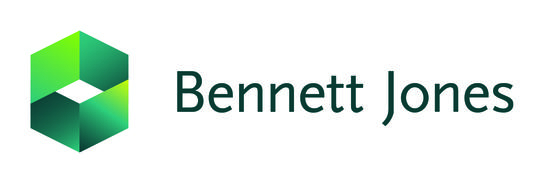
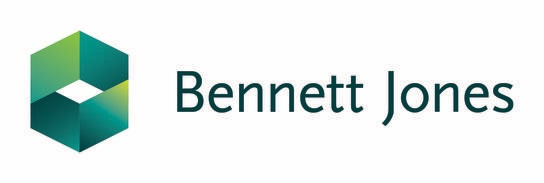
Improved image compression

Changed region(s): [[0.0312, 0.1639, 0.25, 0.5738], [0.0938, 0.4372, 0.25, 0.847]]

diff --git a/script.js b/script.js
@@ -9,7 +9,7 @@ const siteConfig = {
       "Join students, researchers, executives, and policy leaders for a one-day conference focused on the global energy industry.",
     about:
       "Queen's Global Energy Conference (QGEC) connects emerging talent with decision-makers shaping global energy markets. The conference combines keynote perspectives, technical sessions, and practical networking designed for both learning and sponsorship visibility.",
-    heroImage: "images/hero-image.png",
+    heroImage: "images/hero-image-opt.jpg",
     aboutImage: "images/western-electricity-grids.jpg",
     titleLines: ["Queen's", "Global Energy", "Conference 2026"],
     highlights: [
@@ -86,7 +86,7 @@ const siteConfig = {
       {
         name: "Matias Marjovsky",
         role: "Co-Chair",
-        image: "images/Team/Cochair/matias.png"
+        image: "images/Team/Cochair/matias-opt.jpg"
       }
     ],
     directors: [
@@ -109,11 +109,6 @@ const siteConfig = {
         name: "Markus Pennant",
         role: "Logistics",
         image: "images/Team/Directors/Markus-Headshot-opt.jpg"
-      },
-      {
-        name: "Sarah Bacanin",
-        role: "Events",
-        image: "images/Team/Directors/sarah.png"
       }
     ]
   },
@@ -315,7 +310,7 @@ const renderHero = () => {
 
   byId("hero-tagline").textContent = safeText(conference?.tagline);
   byId("hero-description").textContent = safeText(conference?.description);
-  byId("hero-media").style.backgroundImage = `url('${safeUrl(conference?.heroImage, "images/hero-image.png")}')`;
+  byId("hero-media").style.backgroundImage = `url('${safeUrl(conference?.heroImage, "images/hero-image-opt.jpg")}')`;
 
   const register = safeUrl(ctaLinks?.registerUrl);
   const sponsor = safeUrl(ctaLinks?.sponsorInfoUrl, safeUrl(ctaLinks?.sponsorUrl));

diff --git a/index.html b/index.html
@@ -8,7 +8,7 @@
       content="Queen's Global Energy Conference website with conference details, speakers, agenda, and registration information."
     />
     <title>Queen's Global Energy Conference</title>
-    <link rel="preload" href="images/hero-image.png" as="image" type="image/png" />
+    <link rel="preload" href="images/hero-image-opt.jpg" as="image" type="image/jpeg" />
     <link rel="stylesheet" href="styles.css" />
     <!-- <link rel="icon" type="image/x-icon" href="/images/favicon.ico"> -->
   </head>

diff --git a/styles.css b/styles.css
@@ -479,7 +479,7 @@ img {
 
 .hero-media {
   z-index: -3;
-  background-image: url("images/hero-image.png");
+  background-image: url("images/hero-image-opt.jpg");
   background-repeat: no-repeat;
   background-size: cover;
   background-position: center center;
